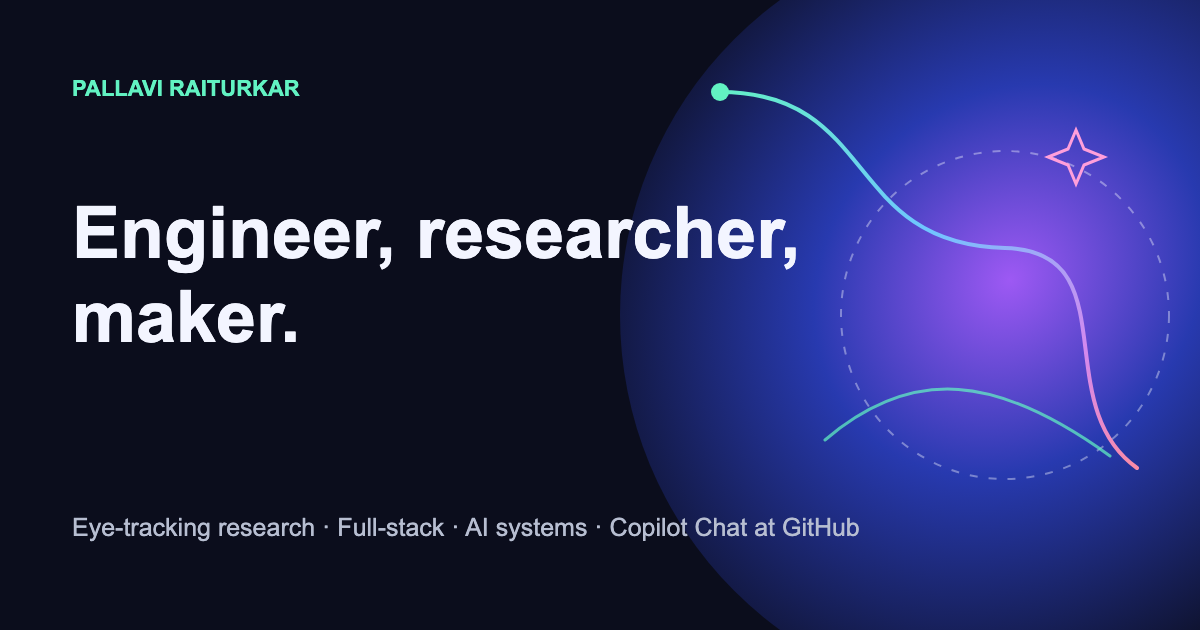
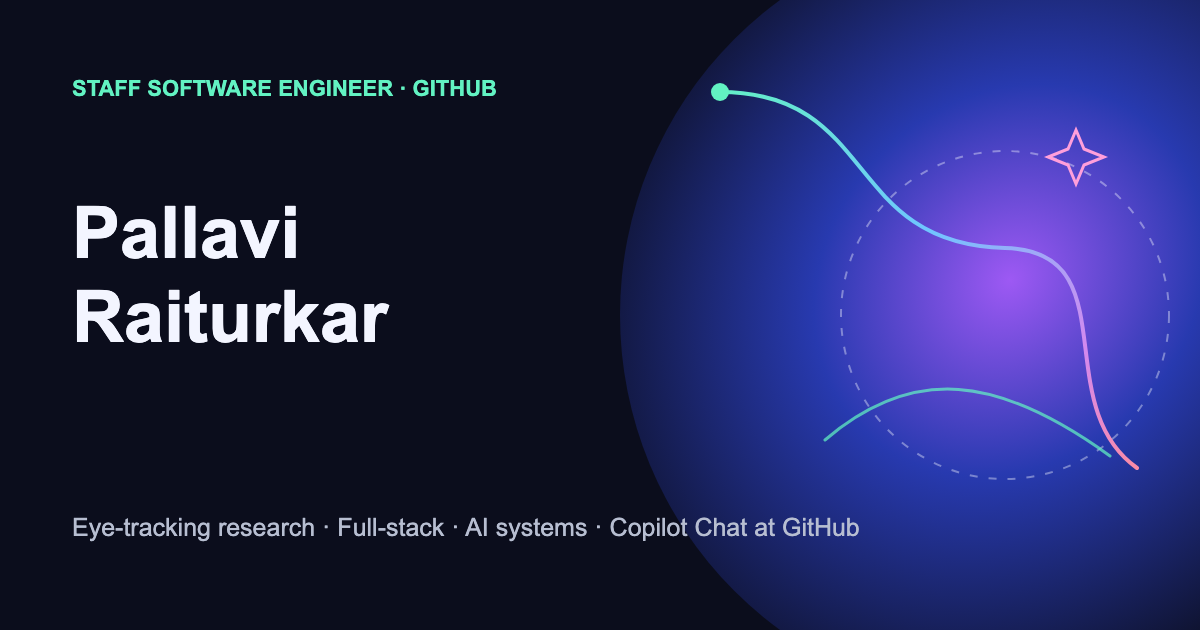
Fix scroll performance, responsive nav, and hero framing
Scroll jank: the ambient layers animated non-compositable properties, so
every frame forced a re-raster plus a 58-72px Gaussian re-blur.

- field-morph animated border-radius; now transform-only
- gradient-drift animated background-position inside the sticky header
- dropped backdrop-filter from the sticky header (re-sampled each frame)
- ambient motion now pauses while its section is off-screen

Measured over a full-page scroll at 6x CPU throttle:
p95 25ms -> 9.2ms, max 33.3ms -> 9.3ms, dropped frames 8.8% -> 0%.

Navigation: below 52rem the nav was hiding Research and Studio outright.
Replaced with a real disclosure menu (hand-drawn toggle, aria-expanded,
Escape, outside-click and focus-out close, reduced-motion alternative).

Layout: the focus card clipped its own content because brief-title scaled
on viewport width rather than card width. Rebalanced the clamp, allowed the
heading row to wrap, and put the decorative orb behind the list. Shell now
grows to 100rem so wide displays fill out.

Hero: name as the h1 with the role as supporting metadata, which is how
personal sites usually frame this. Social card synced.

Copilot-Session: 5daaddb6-3287-40fb-aefb-cc8bccbd6167

Changed region(s): [[0.0617, 0.3016, 0.6783, 0.5429], [0.0617, 0.1206, 0.4317, 0.1508]]

diff --git a/styles.css b/styles.css
@@ -82,7 +82,7 @@
     --radius-sm: 0.5rem;
     --radius-media: 1rem;
     --radius-pill: 999px;
-    --shell: min(100% - clamp(2rem, 8vw, 8rem), 88rem);
+    --shell: min(100% - clamp(2rem, 8vw, 10rem), 100rem);
 
     --ease-out-quart: cubic-bezier(0.25, 1, 0.5, 1);
     --ease-out-expo: cubic-bezier(0.16, 1, 0.3, 1);
@@ -268,7 +268,7 @@
     stroke: currentColor;
     stroke-linecap: round;
     stroke-linejoin: round;
-    stroke-width: 1.7;
+    stroke-width: 1.8;
   }
 
   .button-primary {
@@ -376,8 +376,9 @@
 
   .brief-heading {
     display: flex;
+    flex-wrap: wrap;
     justify-content: space-between;
-    gap: var(--space-md);
+    gap: 0.35rem var(--space-md);
     color: var(--color-ink-light-soft);
     font-size: var(--text-xs);
     font-weight: 600;
@@ -388,8 +389,10 @@
   }
 
   .brief-title {
-    max-width: 10ch;
-    font-size: clamp(2rem, 4vw, 3.5rem);
+    max-width: 12ch;
+    overflow-wrap: break-word;
+    text-wrap: balance;
+    font-size: clamp(1.85rem, 2.9vw, 2.6rem);
     font-variation-settings: "wdth" 88;
     font-weight: 500;
     letter-spacing: -0.035em;
@@ -421,6 +424,7 @@
 
   .brief-signal {
     position: absolute;
+    z-index: 0;
     right: -6rem;
     bottom: -6rem;
     width: 18rem;
@@ -848,7 +852,7 @@
 
   @media (max-width: 48rem) {
     :root {
-      --shell: min(100% - 2rem, 88rem);
+      --shell: min(100% - 2rem, 100rem);
     }
 
     .section-heading,
@@ -912,12 +916,6 @@
   }
 
   @media (max-width: 40rem) {
-    .wordmark-name,
-    .site-nav a:nth-child(2),
-    .site-nav a:nth-child(3) {
-      display: none;
-    }
-
     .hero {
       min-height: auto;
       padding-block: 4.5rem 6rem;
@@ -1089,9 +1087,8 @@
   }
 
   .site-header {
-    background: oklch(0.115 0.026 278 / 0.82);
+    background: oklch(0.105 0.024 278);
     border-color: oklch(0.56 0.08 274 / 0.22);
-    backdrop-filter: blur(18px) saturate(140%);
   }
 
   .brand-mark {
@@ -1119,7 +1116,6 @@
     box-shadow:
       0 11px 34px oklch(0.55 0.2 281 / 0.2),
       inset 0 1px 0 oklch(1 0 0 / 0.25);
-    animation: gradient-drift 9s ease-in-out infinite alternate;
   }
 
   .nav-contact:hover,
@@ -1674,17 +1670,15 @@
 
   @keyframes field-morph {
     0% {
-      border-radius: 45% 55% 57% 43% / 52% 45% 55% 48%;
-      transform: rotate(7deg) scale(0.98);
+      transform: rotate(7deg) scale(0.98) translate3d(0, 0, 0);
     }
 
     50% {
-      border-radius: 60% 40% 42% 58% / 39% 58% 42% 61%;
+      transform: rotate(1deg) scale(1.03) translate3d(1.5%, -1.5%, 0);
     }
 
     100% {
-      border-radius: 40% 60% 62% 38% / 57% 35% 65% 43%;
-      transform: rotate(-5deg) scale(1.05);
+      transform: rotate(-5deg) scale(1.05) translate3d(0, 0, 0);
     }
   }
 
@@ -1735,7 +1729,7 @@
 
   @media (max-width: 680px) {
     .site-header {
-      backdrop-filter: blur(15px) saturate(135%);
+      background: oklch(0.105 0.024 278);
     }
 
     .hero {
@@ -1821,4 +1815,136 @@
       transition-duration: 0.01ms;
     }
   }
+}
+
+/* Responsive navigation: inline links on wide viewports, disclosure menu below. */
+.nav-toggle {
+  display: none;
+  min-height: 2.75rem;
+  align-items: center;
+  gap: 0.55rem;
+  padding-inline: 0.85rem;
+  border: 1px solid var(--color-line);
+  border-radius: var(--radius-pill);
+  background: oklch(1 0 0 / 0.03);
+  color: var(--color-ink-light);
+  font-family: inherit;
+  font-size: var(--text-sm);
+  font-weight: 500;
+  cursor: pointer;
+  transition:
+    border-color var(--duration-fast) var(--ease-out-quart),
+    background-color var(--duration-fast) var(--ease-out-quart);
+}
+
+.nav-toggle:hover {
+  border-color: oklch(0.78 0.13 184 / 0.55);
+  background: oklch(1 0 0 / 0.07);
+}
+
+.nav-toggle-glyph svg {
+  display: block;
+  width: 1.6rem;
+  height: auto;
+  overflow: visible;
+  stroke: currentColor;
+  stroke-linecap: round;
+  stroke-width: 1.8;
+}
+
+.nav-toggle-glyph path {
+  transition:
+    transform 420ms var(--ease-out-quart),
+    opacity 220ms var(--ease-out-quart);
+  transform-box: fill-box;
+  transform-origin: center;
+}
+
+.nav-toggle[aria-expanded="true"] .nav-toggle-top {
+  transform: translateY(4.6px) rotate(27deg);
+}
+
+.nav-toggle[aria-expanded="true"] .nav-toggle-mid {
+  opacity: 0;
+}
+
+.nav-toggle[aria-expanded="true"] .nav-toggle-bot {
+  transform: translateY(-4.6px) rotate(-27deg);
+}
+
+@media (max-width: 52rem) {
+  .nav-toggle {
+    display: inline-flex;
+  }
+
+  .site-nav {
+    position: absolute;
+    z-index: 1;
+    top: 100%;
+    right: 0;
+    left: 0;
+    flex-direction: column;
+    align-items: stretch;
+    padding: 0.6rem clamp(1rem, 4vw, 4rem) 1.35rem;
+    border-bottom: 1px solid var(--color-line);
+    background: var(--color-night);
+    box-shadow: 0 28px 60px oklch(0.04 0.02 275 / 0.65);
+    pointer-events: none;
+    gap: 0.15rem;
+    opacity: 0;
+    transform: translateY(-0.6rem);
+    transition:
+      opacity 260ms var(--ease-out-quart),
+      transform 320ms var(--ease-out-quart),
+      visibility 320ms;
+    visibility: hidden;
+  }
+
+  .site-header[data-nav-open="true"] .site-nav {
+    opacity: 1;
+    pointer-events: auto;
+    transform: translateY(0);
+    visibility: visible;
+  }
+
+  .site-nav a {
+    justify-content: flex-start;
+    padding-block: 0.35rem;
+    padding-inline: 0.9rem;
+    font-size: var(--text-md);
+  }
+
+  .site-nav .nav-contact {
+    margin-top: 0.55rem;
+    justify-content: center;
+  }
+
+  .site-nav a:not(.nav-contact)::after {
+    display: none;
+  }
+}
+
+@media (prefers-reduced-motion: reduce) {
+  .site-nav,
+  .nav-toggle-glyph path {
+    transition-duration: 0.01ms;
+  }
+}
+
+/* Scroll performance: heavily blurred ambient layers are expensive to rasterize,
+   so their motion is suspended while their section is outside the viewport. */
+[data-motion="idle"],
+[data-motion="idle"] *,
+[data-motion="idle"]::before,
+[data-motion="idle"]::after {
+  animation-play-state: paused !important;
+}
+
+.hero-aurora,
+.hero-field,
+.signal-map,
+.studio-glow,
+.research-orbit {
+  will-change: transform;
+  backface-visibility: hidden;
 }

diff --git a/script.js b/script.js
@@ -39,3 +39,83 @@
 
   sections.forEach((section) => observer.observe(section));
 })();
+
+(() => {
+  const header = document.querySelector(".site-header");
+  const toggle = document.querySelector(".nav-toggle");
+  const nav = document.getElementById("primary-nav");
+
+  if (!header || !toggle || !nav) {
+    return;
+  }
+
+  const compact = window.matchMedia("(max-width: 52rem)");
+
+  const setOpen = (open) => {
+    header.dataset.navOpen = String(open);
+    toggle.setAttribute("aria-expanded", String(open));
+  };
+
+  setOpen(false);
+
+  toggle.addEventListener("click", () => {
+    setOpen(toggle.getAttribute("aria-expanded") !== "true");
+  });
+
+  nav.addEventListener("click", (event) => {
+    if (event.target.closest("a")) {
+      setOpen(false);
+    }
+  });
+
+  document.addEventListener("keydown", (event) => {
+    if (event.key === "Escape" && toggle.getAttribute("aria-expanded") === "true") {
+      setOpen(false);
+      toggle.focus();
+    }
+  });
+
+  document.addEventListener("click", (event) => {
+    if (
+      toggle.getAttribute("aria-expanded") === "true" &&
+      !header.contains(event.target)
+    ) {
+      setOpen(false);
+    }
+  });
+
+  document.addEventListener("focusin", (event) => {
+    if (
+      toggle.getAttribute("aria-expanded") === "true" &&
+      !header.contains(event.target)
+    ) {
+      setOpen(false);
+    }
+  });
+
+  compact.addEventListener("change", () => setOpen(false));
+})();
+
+(() => {
+  const stages = document.querySelectorAll(
+    "#top, #work, #research, #studio, #contact"
+  );
+
+  if (!stages.length || !("IntersectionObserver" in window)) {
+    return;
+  }
+
+  const observer = new IntersectionObserver(
+    (entries) => {
+      entries.forEach((entry) => {
+        entry.target.dataset.motion = entry.isIntersecting ? "active" : "idle";
+      });
+    },
+    { rootMargin: "20% 0px 20%" }
+  );
+
+  stages.forEach((stage) => {
+    stage.dataset.motion = "idle";
+    observer.observe(stage);
+  });
+})();

diff --git a/index.html b/index.html
@@ -76,7 +76,22 @@
           <span class="wordmark-mark" aria-hidden="true">PR</span>
           <span class="wordmark-name">Pallavi Raiturkar</span>
         </a>
-        <nav class="site-nav" aria-label="Primary navigation">
+        <button
+          class="nav-toggle"
+          type="button"
+          aria-expanded="false"
+          aria-controls="primary-nav"
+        >
+          <span class="nav-toggle-glyph" aria-hidden="true">
+            <svg viewBox="0 0 26 18" fill="none" aria-hidden="true">
+              <path class="nav-toggle-top" d="M2 4.4c6.6-1.4 15.4-1.4 22 0" />
+              <path class="nav-toggle-mid" d="M2 9c6.6-1.2 15.4-1.2 22 0" />
+              <path class="nav-toggle-bot" d="M2 13.6c6.6-1.4 15.4-1.4 22 0" />
+            </svg>
+          </span>
+          <span class="nav-toggle-label">Menu</span>
+        </button>
+        <nav class="site-nav" id="primary-nav" aria-label="Primary navigation">
           <a href="#work">Work</a>
           <a href="#research">Research</a>
           <a href="#studio">Studio</a>
@@ -121,9 +136,9 @@
         <div class="hero-copy">
           <p class="hero-role">
             <span aria-hidden="true"></span>
-            Pallavi Raiturkar
+            Staff Software Engineer · GitHub
           </p>
-          <h1 id="hero-title">Engineer, researcher, maker.</h1>
+          <h1 id="hero-title">Pallavi Raiturkar</h1>
           <p class="hero-intro">
             I started in eye-tracking research, spent five years in full-stack engineering, moved
             into AI systems, and now lead technical work on Copilot Chat at GitHub. Across all of
